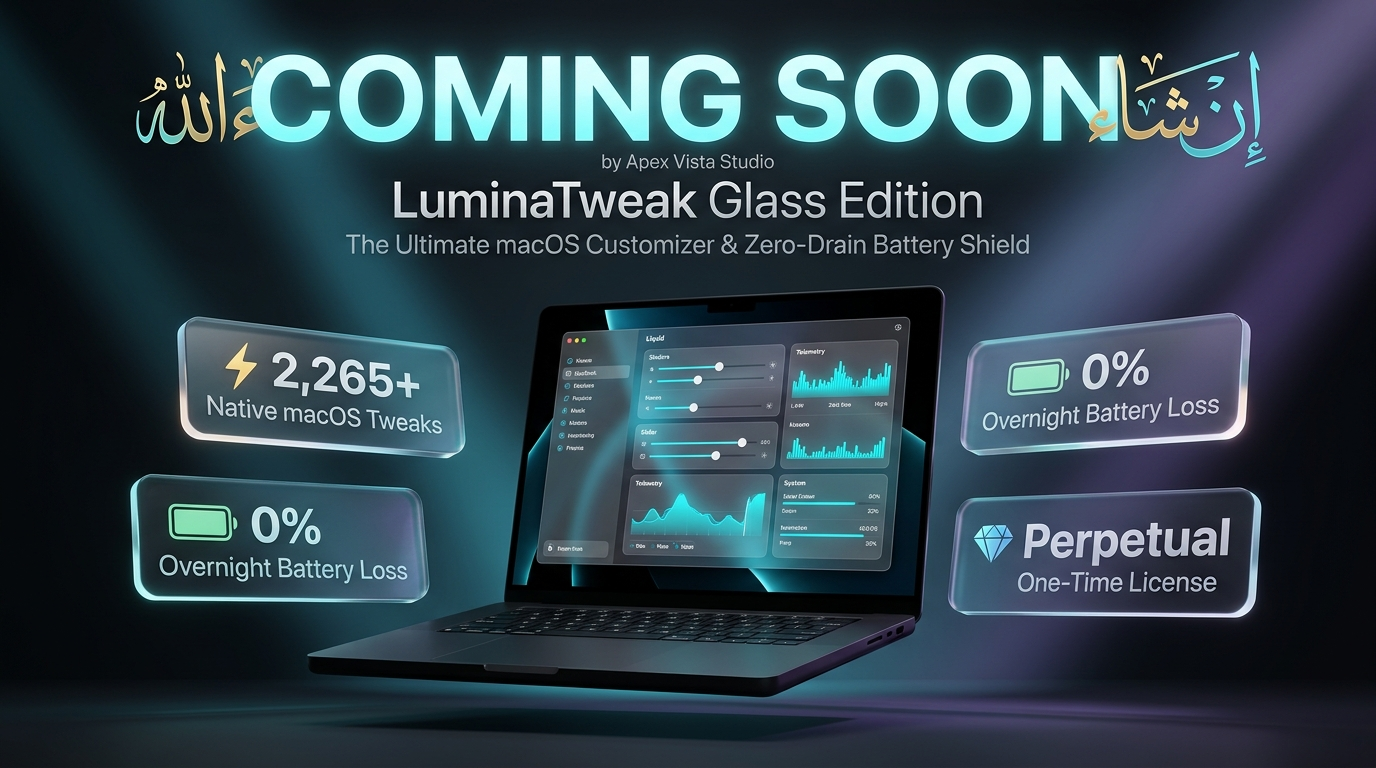
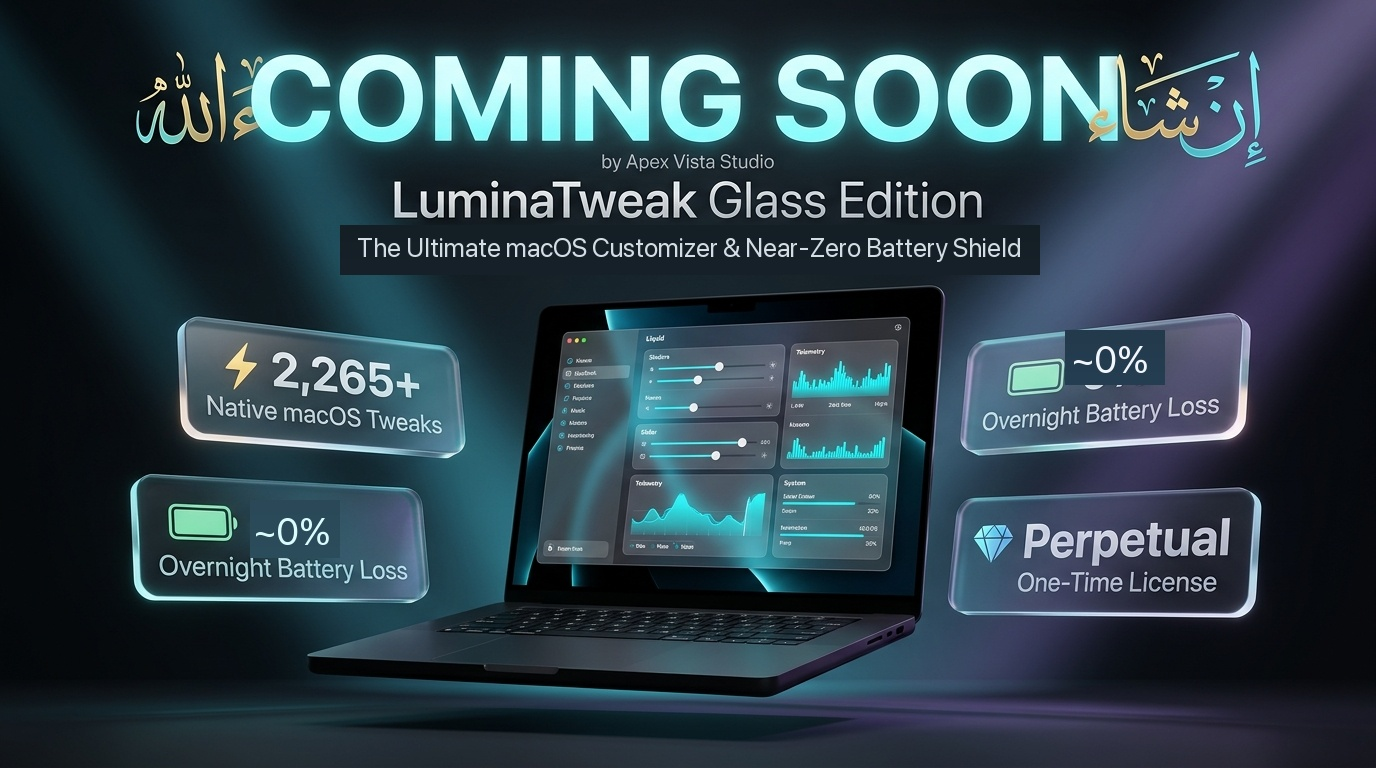
fix: update all marketing images and legal docs to Near-Zero/Almost-Zero battery shield and remove update service commitments

Changed region(s): [[0.25, 0.2812, 0.7812, 0.375], [0.75, 0.4062, 0.8438, 0.5], [0.1562, 0.6562, 0.25, 0.7188]]

diff --git a/terms.html b/terms.html
@@ -109,7 +109,7 @@
             <li><a href="#id-sec5">Harga, Pembayaran, dan Pengiriman Kunci Lisensi</a></li>
             <li><a href="#id-sec6">Hak Kekayaan Intelektual</a></li>
             <li><a href="#id-sec7">Batasan &amp; Larangan Penggunaan</a></li>
-            <li><a href="#id-sec8">Pembaruan Perangkat Lunak &amp; Bantuan Teknis</a></li>
+            <li><a href="#id-sec8">Bantuan Teknis &amp; Dukungan Aktivasi</a></li>
             <li><a href="#id-sec9">Batasan Tanggung Jawab &amp; Penafian Garansi</a></li>
             <li><a href="#id-sec10">Pengakhiran &amp; Deaktivasi Lisensi</a></li>
             <li><a href="#id-sec11">Hukum yang Mengatur &amp; Yurisdiksi</a></li>
@@ -179,11 +179,11 @@
         </section>
 
         <section id="id-sec8">
-          <h2>8. Pembaruan Perangkat Lunak &amp; Bantuan Teknis</h2>
-          <p>Ketentuan pembaruan dan bantuan teknis:</p>
+          <h2>8. Bantuan Teknis &amp; Dukungan Aktivasi</h2>
+          <p>Ketentuan bantuan teknis dan dukungan lisensi:</p>
           <ul>
-            <li>Setiap pembaruan berkala atau perbaikan perangkat lunak yang dirilis oleh pengembang untuk versi yang dibeli dapat diunduh tanpa biaya tambahan. Waktu rilis dan ketersediaan fitur di masa depan sepenuhnya berada pada diskresi teknis pengembang tanpa kewajiban pembaruan seumur hidup atau SLA dukungan prioritas.</li>
-            <li>Bantuan teknis dasar melalui email resmi <code>admin@rekasaujanafalah.com</code> untuk kendala aktivasi lisensi dan migrasi perangkat.</li>
+            <li>Lisensi LuminaTweak Glass Edition merupakan pembelian permanen (jual putus) untuk rilis fungsionalitas perangkat lunak saat pembelian, tanpa kewajiban penyediaan layanan pembaruan berkelanjutan atau komitmen SLA tertentu. Apabila perbaikan atau peningkatan di masa mendatang dirilis oleh pengembang, hal tersebut dapat diakses sesuai ketersediaan.</li>
+            <li>Bantuan teknis dasar disediakan melalui email resmi <code>admin@rekasaujanafalah.com</code> khusus untuk kendala aktivasi lisensi dan migrasi perangkat yang sah.</li>
           </ul>
         </section>
 
@@ -233,7 +233,7 @@
             <li><a href="#en-sec5">Pricing, Payment &amp; Instant License Delivery</a></li>
             <li><a href="#en-sec6">Intellectual Property Rights</a></li>
             <li><a href="#en-sec7">Restrictions &amp; Prohibited Conduct</a></li>
-            <li><a href="#en-sec8">Software Updates &amp; Technical Assistance</a></li>
+            <li><a href="#en-sec8">Technical Assistance &amp; Activation Support</a></li>
             <li><a href="#en-sec9">Disclaimer of Warranties &amp; Limitation of Liability</a></li>
             <li><a href="#en-sec10">License Termination &amp; Revocation</a></li>
             <li><a href="#en-sec11">Governing Law &amp; Dispute Resolution</a></li>
@@ -303,11 +303,11 @@
         </section>
 
         <section id="en-sec8">
-          <h2>8. Software Updates &amp; Technical Assistance</h2>
-          <p>Terms regarding updates and technical assistance:</p>
+          <h2>8. Technical Assistance &amp; Activation Support</h2>
+          <p>Terms regarding technical assistance and license support:</p>
           <ul>
-            <li>Any software maintenance updates or bug fixes released by the developer for the purchased version are provided free of additional charge. Release timing and future feature updates remain at the sole technical discretion of the developer without ongoing lifetime update liabilities or priority SLA support commitments.</li>
-            <li>Standard customer email assistance via <code>admin@rekasaujanafalah.com</code> for license activation inquiries and device migration guidance.</li>
+            <li>LuminaTweak Glass Edition is provided as a one-time perpetual purchase for the currently delivered release functionality, without ongoing software update obligations or maintenance SLA commitments. Any future patches or maintenance releases, if provided, remain at the developer's sole discretion.</li>
+            <li>Standard customer email assistance is provided via <code>admin@rekasaujanafalah.com</code> exclusively for legitimate license activation inquiries and device migration guidance.</li>
           </ul>
         </section>
 

diff --git a/lumina/paddle/terms.html b/lumina/paddle/terms.html
@@ -111,7 +111,7 @@
             <li><a href="#id-sec5">Harga, Pembayaran, dan Pengiriman Kunci Lisensi</a></li>
             <li><a href="#id-sec6">Hak Kekayaan Intelektual</a></li>
             <li><a href="#id-sec7">Batasan &amp; Larangan Penggunaan</a></li>
-            <li><a href="#id-sec8">Pembaruan Perangkat Lunak &amp; Bantuan Teknis</a></li>
+            <li><a href="#id-sec8">Bantuan Teknis &amp; Dukungan Aktivasi</a></li>
             <li><a href="#id-sec9">Batasan Tanggung Jawab &amp; Penafian Garansi</a></li>
             <li><a href="#id-sec10">Pengakhiran &amp; Deaktivasi Lisensi</a></li>
             <li><a href="#id-sec11">Hukum yang Mengatur &amp; Yurisdiksi</a></li>
@@ -173,11 +173,11 @@
         </section>
 
         <section id="id-sec8">
-          <h2>8. Pembaruan Perangkat Lunak &amp; Bantuan Teknis</h2>
-          <p>Ketentuan pembaruan dan bantuan teknis:</p>
+          <h2>8. Bantuan Teknis &amp; Dukungan Aktivasi</h2>
+          <p>Ketentuan bantuan teknis dan dukungan lisensi:</p>
           <ul>
-            <li>Setiap pembaruan berkala atau perbaikan bug yang dirilis oleh pengembang untuk versi yang dibeli dapat diunduh tanpa biaya tambahan. Waktu rilis dan ketersediaan pembaruan di masa depan sepenuhnya berada pada diskresi teknis pengembang tanpa kewajiban kontraktual jangka panjang atau SLA dukungan prioritas.</li>
-            <li>Bantuan teknis dasar melalui email resmi <code>admin@rekasaujanafalah.com</code> untuk kendala aktivasi lisensi dan migrasi perangkat.</li>
+            <li>Lisensi LuminaTweak Glass Edition merupakan pembelian permanen (jual putus) untuk rilis fungsionalitas perangkat lunak saat pembelian, tanpa kewajiban penyediaan layanan pembaruan berkala atau komitmen SLA tertentu. Apabila perbaikan atau peningkatan di masa mendatang dirilis oleh pengembang, hal tersebut dapat diakses sesuai ketersediaan.</li>
+            <li>Bantuan teknis dasar disediakan melalui email resmi <code>admin@rekasaujanafalah.com</code> khusus untuk kendala aktivasi lisensi dan migrasi perangkat yang sah.</li>
           </ul>
         </section>
 
@@ -222,7 +222,7 @@
             <li><a href="#en-sec5">Pricing, Payment &amp; Instant License Delivery</a></li>
             <li><a href="#en-sec6">Intellectual Property Rights</a></li>
             <li><a href="#en-sec7">Restrictions &amp; Prohibited Conduct</a></li>
-            <li><a href="#en-sec8">Software Updates &amp; Technical Assistance</a></li>
+            <li><a href="#en-sec8">Technical Assistance &amp; Activation Support</a></li>
             <li><a href="#en-sec9">Disclaimer of Warranties &amp; Limitation of Liability</a></li>
             <li><a href="#en-sec10">License Termination &amp; Revocation</a></li>
             <li><a href="#en-sec11">Governing Law &amp; Dispute Resolution</a></li>
@@ -291,11 +291,11 @@
         </section>
 
         <section id="en-sec8">
-          <h2>8. Software Updates &amp; Technical Assistance</h2>
-          <p>Terms regarding updates and technical assistance:</p>
+          <h2>8. Technical Assistance &amp; Activation Support</h2>
+          <p>Terms regarding technical assistance and license support:</p>
           <ul>
-            <li>Any software maintenance updates or bug fixes released by the developer for the purchased version are provided free of additional charge. Release timing and future feature updates remain at the sole technical discretion of the developer without ongoing lifetime update liabilities or priority SLA support commitments.</li>
-            <li>Standard customer email assistance via <code>admin@rekasaujanafalah.com</code> for license activation inquiries and device migration guidance.</li>
+            <li>LuminaTweak Glass Edition is provided as a one-time perpetual purchase for the currently delivered release functionality, without ongoing software update obligations or maintenance SLA commitments. Any future patches or maintenance releases, if provided, remain at the developer's sole discretion.</li>
+            <li>Standard customer email assistance via <code>admin@rekasaujanafalah.com</code> exclusively for legitimate license activation inquiries and device migration guidance.</li>
           </ul>
         </section>
 

diff --git a/lumina/lemon/terms.html b/lumina/lemon/terms.html
@@ -110,7 +110,7 @@
             <li><a href="#id-sec5">Harga, Pembayaran, dan Pengiriman Kunci Lisensi</a></li>
             <li><a href="#id-sec6">Hak Kekayaan Intelektual</a></li>
             <li><a href="#id-sec7">Batasan &amp; Larangan Penggunaan</a></li>
-            <li><a href="#id-sec8">Pembaruan Perangkat Lunak &amp; Bantuan Teknis</a></li>
+            <li><a href="#id-sec8">Bantuan Teknis &amp; Dukungan Aktivasi</a></li>
             <li><a href="#id-sec9">Batasan Tanggung Jawab &amp; Penafian Garansi</a></li>
             <li><a href="#id-sec10">Pengakhiran &amp; Deaktivasi Lisensi</a></li>
             <li><a href="#id-sec11">Hukum yang Mengatur &amp; Yurisdiksi</a></li>
@@ -171,11 +171,11 @@
         </section>
 
         <section id="id-sec8">
-          <h2>8. Pembaruan Perangkat Lunak &amp; Bantuan Teknis</h2>
-          <p>Ketentuan pembaruan dan bantuan teknis:</p>
+          <h2>8. Bantuan Teknis &amp; Dukungan Aktivasi</h2>
+          <p>Ketentuan bantuan teknis dan dukungan lisensi:</p>
           <ul>
-            <li>Setiap pembaruan berkala maupun perbaikan bug (patch) yang dirilis pengembang untuk versi yang dibeli diberikan secara gratis. Waktu rilis dan ada/tidaknya pembaruan di masa depan sepenuhnya menjadi diskresi teknis pengembang tanpa kewajiban pembaruan seumur hidup atau komitmen prioritas khusus.</li>
-            <li>Bantuan teknis standar disediakan melalui email <code>admin@rekasaujanafalah.com</code> untuk kendala aktivasi lisensi dan migrasi perangkat.</li>
+            <li>Lisensi LuminaTweak Glass Edition merupakan pembelian permanen (jual putus) untuk rilis fungsionalitas perangkat lunak saat pembelian, tanpa kewajiban penyediaan layanan pembaruan berkala atau komitmen SLA tertentu. Apabila perbaikan atau peningkatan di masa depan dirilis oleh pengembang, hal tersebut dapat diakses sesuai ketersediaan.</li>
+            <li>Bantuan teknis standar disediakan melalui email <code>admin@rekasaujanafalah.com</code> khusus untuk kendala aktivasi lisensi dan migrasi perangkat yang sah.</li>
           </ul>
         </section>
 
@@ -221,7 +221,7 @@
             <li><a href="#en-sec5">Pricing, Payment &amp; Instant License Delivery</a></li>
             <li><a href="#en-sec6">Intellectual Property Rights</a></li>
             <li><a href="#en-sec7">Restrictions &amp; Prohibited Conduct</a></li>
-            <li><a href="#en-sec8">Software Updates &amp; Technical Assistance</a></li>
+            <li><a href="#en-sec8">Technical Assistance &amp; Activation Support</a></li>
             <li><a href="#en-sec9">Disclaimer of Warranties &amp; Limitation of Liability</a></li>
             <li><a href="#en-sec10">License Termination &amp; Revocation</a></li>
             <li><a href="#en-sec11">Governing Law &amp; Dispute Resolution</a></li>
@@ -289,11 +289,11 @@
         </section>
 
         <section id="en-sec8">
-          <h2>8. Software Updates &amp; Technical Assistance</h2>
-          <p>Terms regarding updates and technical assistance:</p>
+          <h2>8. Technical Assistance &amp; Activation Support</h2>
+          <p>Terms regarding technical assistance and license support:</p>
           <ul>
-            <li>Any software maintenance updates or bug fixes released by the developer for the purchased version are provided free of additional charge. Release timing and future feature updates remain at the sole technical discretion of the developer without ongoing lifetime update liabilities or priority SLA support commitments.</li>
-            <li>Standard customer email assistance via <code>admin@rekasaujanafalah.com</code> for license activation inquiries and device migration guidance.</li>
+            <li>LuminaTweak Glass Edition is provided as a one-time perpetual purchase for the currently delivered release functionality, without ongoing software update obligations or maintenance SLA commitments. Any future patches or maintenance releases, if provided, remain at the developer's sole discretion.</li>
+            <li>Standard customer email assistance via <code>admin@rekasaujanafalah.com</code> exclusively for legitimate license activation inquiries and device migration guidance.</li>
           </ul>
         </section>
 

diff --git a/lumina/demo.html b/lumina/demo.html
@@ -629,7 +629,7 @@
         <div class="demo-spotlight-card" id="spotlightCard">
           <div style="font-size: 0.72rem; text-transform: uppercase; color: var(--accent-cyan); font-weight: 700; margin-bottom: 0.25rem;" id="spotlightStep">FEATURE HIGHLIGHT</div>
           <div style="font-size: 0.95rem; font-weight: 700; color: #fff; margin-bottom: 0.35rem;" id="spotlightTitle">Near-Zero Battery Shield</div>
-          <div style="font-size: 0.8rem; color: #cbd5e1; line-height: 1.4;" id="spotlightDesc">Prevents lid-open auto-wakeups and aggressive background maintenance when sleeping. Preserves 100% charge overnight.</div>
+          <div style="font-size: 0.8rem; color: #cbd5e1; line-height: 1.4;" id="spotlightDesc">Prevents lid-open auto-wakeups and aggressive background maintenance when sleeping. Preserves almost 100% charge overnight.</div>
         </div>
 
         <!-- LuminaTweak Glass Main Window -->
@@ -912,7 +912,7 @@
           elementId: 'cardBatteryShield',
           stepText: 'STEP 1 OF 4 • HARDWARE DEFENSE',
           title: 'Near-Zero Battery Shield',
-          desc: 'Stops MacBook battery drain inside your backpack. Preserves 100% battery overnight by silencing unneeded maintenance cycles.',
+          desc: 'Stops MacBook battery drain inside your backpack. Preserves almost 100% battery overnight by silencing unneeded maintenance cycles.',
           action: () => {
             const t = document.getElementById('toggleBatteryShield');
             t.checked = !t.checked;

diff --git a/lumina/index.html b/lumina/index.html
@@ -629,7 +629,7 @@
         <div class="demo-spotlight-card" id="spotlightCard">
           <div style="font-size: 0.72rem; text-transform: uppercase; color: var(--accent-cyan); font-weight: 700; margin-bottom: 0.25rem;" id="spotlightStep">FEATURE HIGHLIGHT</div>
           <div style="font-size: 0.95rem; font-weight: 700; color: #fff; margin-bottom: 0.35rem;" id="spotlightTitle">Near-Zero Battery Shield</div>
-          <div style="font-size: 0.8rem; color: #cbd5e1; line-height: 1.4;" id="spotlightDesc">Prevents lid-open auto-wakeups and aggressive background maintenance when sleeping. Preserves 100% charge overnight.</div>
+          <div style="font-size: 0.8rem; color: #cbd5e1; line-height: 1.4;" id="spotlightDesc">Prevents lid-open auto-wakeups and aggressive background maintenance when sleeping. Preserves almost 100% charge overnight.</div>
         </div>
 
         <!-- LuminaTweak Glass Main Window -->
@@ -912,7 +912,7 @@
           elementId: 'cardBatteryShield',
           stepText: 'STEP 1 OF 4 • HARDWARE DEFENSE',
           title: 'Near-Zero Battery Shield',
-          desc: 'Stops MacBook battery drain inside your backpack. Preserves 100% battery overnight by silencing unneeded maintenance cycles.',
+          desc: 'Stops MacBook battery drain inside your backpack. Preserves almost 100% battery overnight by silencing unneeded maintenance cycles.',
           action: () => {
             const t = document.getElementById('toggleBatteryShield');
             t.checked = !t.checked;

diff --git a/lumina/lemon/demo.html b/lumina/lemon/demo.html
@@ -625,7 +625,7 @@
         <div class="demo-spotlight-card" id="spotlightCard">
           <div style="font-size: 0.72rem; text-transform: uppercase; color: var(--accent-cyan); font-weight: 700; margin-bottom: 0.25rem;" id="spotlightStep">FEATURE HIGHLIGHT</div>
           <div style="font-size: 0.95rem; font-weight: 700; color: #fff; margin-bottom: 0.35rem;" id="spotlightTitle">Near-Zero Battery Shield</div>
-          <div style="font-size: 0.8rem; color: #cbd5e1; line-height: 1.4;" id="spotlightDesc">Prevents lid-open auto-wakeups and aggressive background maintenance when sleeping. Preserves 100% charge overnight.</div>
+          <div style="font-size: 0.8rem; color: #cbd5e1; line-height: 1.4;" id="spotlightDesc">Prevents lid-open auto-wakeups and aggressive background maintenance when sleeping. Preserves almost 100% charge overnight.</div>
         </div>
 
         <!-- LuminaTweak Glass Main Window -->
@@ -878,7 +878,7 @@
           elementId: 'cardBatteryShield',
           stepText: 'STEP 1 OF 4 • HARDWARE DEFENSE',
           title: 'Near-Zero Battery Shield',
-          desc: 'Stops MacBook battery drain inside your backpack. Preserves 100% battery overnight by silencing unneeded maintenance cycles.',
+          desc: 'Stops MacBook battery drain inside your backpack. Preserves almost 100% battery overnight by silencing unneeded maintenance cycles.',
           action: () => {
             const t = document.getElementById('toggleBatteryShield');
             t.checked = !t.checked;

diff --git a/demo.html b/demo.html
@@ -571,7 +571,7 @@
         <div class="demo-spotlight-card" id="spotlightCard">
           <div style="font-size: 0.72rem; text-transform: uppercase; color: var(--accent-cyan); font-weight: 700; margin-bottom: 0.25rem;" id="spotlightStep">FEATURE HIGHLIGHT</div>
           <div style="font-size: 0.95rem; font-weight: 700; color: #fff; margin-bottom: 0.35rem;" id="spotlightTitle">Near-Zero Battery Shield</div>
-          <div style="font-size: 0.8rem; color: #cbd5e1; line-height: 1.4;" id="spotlightDesc">Prevents lid-open auto-wakeups and aggressive background maintenance when sleeping. Preserves 100% charge overnight.</div>
+          <div style="font-size: 0.8rem; color: #cbd5e1; line-height: 1.4;" id="spotlightDesc">Prevents lid-open auto-wakeups and aggressive background maintenance when sleeping. Preserves almost 100% charge overnight.</div>
         </div>
 
         <!-- LuminaTweak Glass Main Window -->
@@ -756,7 +756,7 @@
         elementId: 'cardBatteryShield',
         stepText: 'STEP 1 OF 4 • HARDWARE DEFENSE',
         title: 'Near-Zero Battery Shield',
-        desc: 'Stops MacBook battery drain inside your bag. Preserves 100% battery overnight by silencing unneeded maintenance cycles.',
+        desc: 'Stops MacBook battery drain inside your bag. Preserves almost 100% battery overnight by silencing unneeded maintenance cycles.',
         action: () => {
           const t = document.getElementById('toggleBatteryShield');
           t.checked = !t.checked;

diff --git a/lumina/lemon/privacy.html b/lumina/lemon/privacy.html
@@ -154,7 +154,7 @@
 
         <section id="id-p-sec6">
           <h2>6. Tujuan Pemrosesan &amp; Pemanfaatan Data</h2>
-          <p>Data hanya digunakan untuk validasi keabsahan lisensi, penyediaan pembaruan pemeliharaan, fasilitasi migrasi perangkat Mac, dan pemrosesan permohonan pengembalian dana melalui Lemon Squeezy.</p>
+          <p>Data hanya digunakan untuk validasi keabsahan lisensi, bantuan aktivasi, fasilitasi migrasi perangkat Mac, dan pemrosesan permohonan pengembalian dana melalui Lemon Squeezy.</p>
         </section>
 
         <section id="id-p-sec7">
@@ -252,7 +252,7 @@
 
         <section id="en-p-sec6">
           <h2>6. How We Use Your Information</h2>
-          <p>Data collected is used exclusively to: validate digital software licenses, provide standard maintenance updates and activation support, enable device license transfers between Mac computers, and facilitate refund requests via Lemon Squeezy.</p>
+          <p>Data collected is used exclusively to: validate digital software licenses, provide activation support, enable device license transfers between Mac computers, and facilitate refund requests via Lemon Squeezy.</p>
         </section>
 
         <section id="en-p-sec7">

diff --git a/privacy.html b/privacy.html
@@ -169,7 +169,7 @@
           <p>Data yang kami kumpulkan hanya digunakan untuk:</p>
           <ul>
             <li>Memverifikasi keabsahan lisensi perangkat lunak saat aplikasi dibuka.</li>
-            <li>Menyediakan pembaruan pemeliharaan perangkat lunak berkala dan bantuan aktivasi lisensi.</li>
+            <li>Menyediakan bantuan aktivasi lisensi dan migrasi perangkat.</li>
             <li>Memproses permohonan pengembalian dana (refund) atau pemindahan lisensi ke Mac baru.</li>
             <li>Merespons pertanyaan penjajakan kerjasama dan verifikasi entitas perusahaan.</li>
           </ul>
@@ -306,7 +306,7 @@
           <p>We use collected data solely to:</p>
           <ul>
             <li>Validate software license validity upon launch.</li>
-            <li>Deliver software maintenance releases and license activation assistance.</li>
+            <li>Deliver license activation assistance and legitimate device migration guidance.</li>
             <li>Facilitate license transfers when replacing or upgrading your Mac.</li>
             <li>Process refund requests and deactivate revoked license keys.</li>
           </ul>

diff --git a/enterprise-pricing.html b/enterprise-pricing.html
@@ -420,8 +420,8 @@
           <p>Risk-free 30-day evaluation period backed by our full money-back guarantee. If the software does not suit your fleet, refund is issued promptly.</p>
         </div>
         <div class="deliverable-card">
-          <h4>⚡ Zero Battery Drain Guarantee</h4>
-          <p>Architectural guarantee: zero background daemons, zero battery penalty on Apple Silicon battery health, and 100% reversible presets.</p>
+          <h4>⚡ Near-Zero Battery Drain Guarantee</h4>
+          <p>Architectural guarantee: zero background daemons, negligible battery impact on Apple Silicon battery health, and 100% reversible presets.</p>
         </div>
       </div>
     </div>

diff --git a/lumina/paddle/enterprise-pricing.html b/lumina/paddle/enterprise-pricing.html
@@ -420,8 +420,8 @@
           <p>Risk-free 30-day evaluation period backed by our full money-back guarantee. If the software does not suit your fleet, refund is issued promptly.</p>
         </div>
         <div class="deliverable-card">
-          <h4>⚡ Zero Battery Drain Guarantee</h4>
-          <p>Architectural guarantee: zero background daemons, zero battery penalty on Apple Silicon battery health, and 100% reversible presets.</p>
+          <h4>⚡ Near-Zero Battery Drain Guarantee</h4>
+          <p>Architectural guarantee: zero background daemons, negligible battery impact on Apple Silicon battery health, and 100% reversible presets.</p>
         </div>
       </div>
     </div>

diff --git a/lumina/paddle/privacy.html b/lumina/paddle/privacy.html
@@ -158,7 +158,7 @@
           <p>Data hanya digunakan untuk:</p>
           <ul>
             <li>Memvalidasi keabsahan lisensi aplikasi LuminaTweak Glass saat pertama kali dibuka.</li>
-            <li>Menyediakan pembaruan pemeliharaan perangkat lunak berkala dan bantuan aktivasi lisensi.</li>
+            <li>Menyediakan bantuan aktivasi lisensi dan migrasi perangkat yang sah.</li>
             <li>Memfasilitasi migrasi atau pemindahan lisensi ke Mac baru.</li>
             <li>Memproses permohonan pengembalian dana (refund) melalui sistem Paddle.</li>
           </ul>
